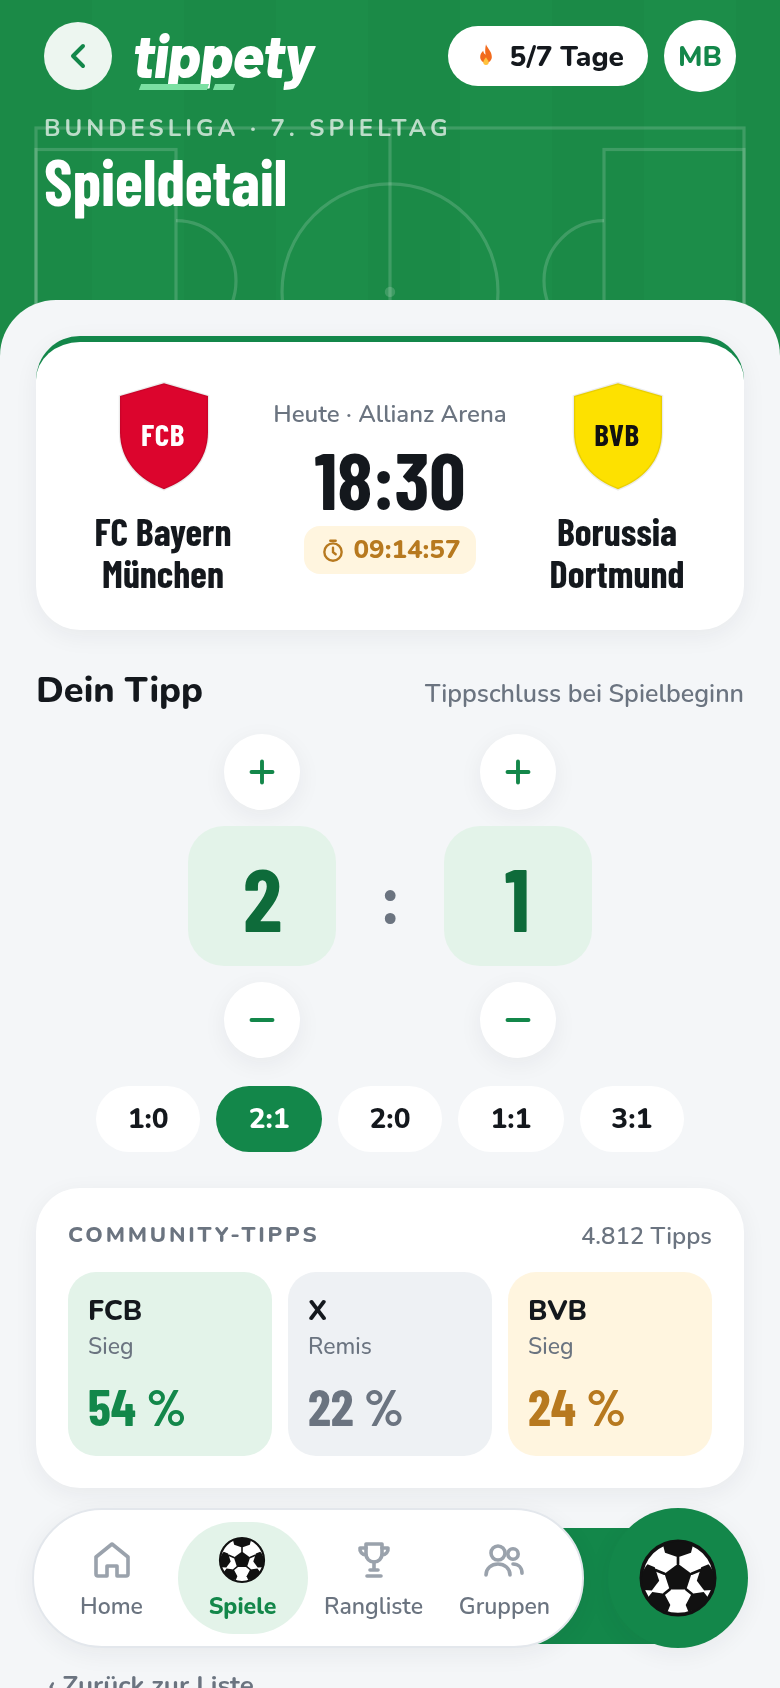
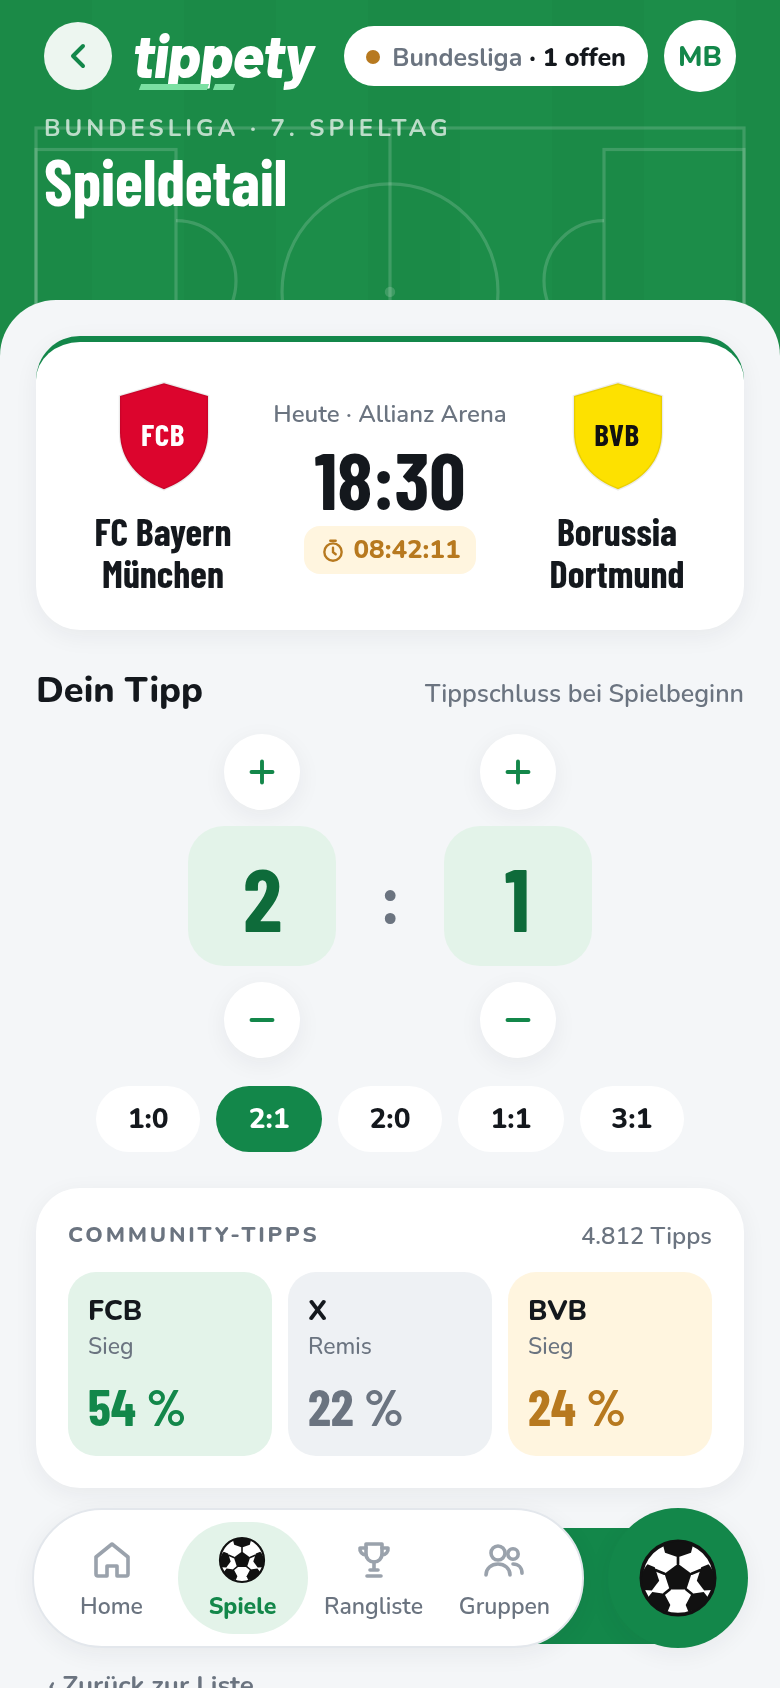
feat: Header-Pill zeigt offene Tipps der Lieblingsliga (nächster Spieltag), live aktualisiert

Changed region(s): [[0.4308, 0.0, 0.7077, 0.0616], [0.4923, 0.3081, 0.5846, 0.3389], [0.7385, 0.0308, 0.8, 0.0616]]

diff --git a/mobile/src/data/mock/mockRepository.ts b/mobile/src/data/mock/mockRepository.ts
@@ -2,6 +2,7 @@ import type { TippetyRepository } from '../repository';
 import type { Match } from '../types';
 import { groups, leaderboards, matches, myStats } from './fixtures';
 import { leagues } from './teams';
+import { notifyTipsChanged } from '../events';
 
 const delay = <T,>(v: T): Promise<T> => new Promise((r) => setTimeout(() => r(v), 0));
 const store: Match[] = matches.map((m) => ({ ...m }));
@@ -34,6 +35,21 @@ export const mockRepository: TippetyRepository = {
     return delay(after ?? open[0]);
   },
   countTipsOnDay: (sport, day) => delay(store.filter((m) => m.sport === sport && m.kickoff.startsWith(day) && m.myTip).length),
+  getOpenTipsNextRound: (sport) => {
+    const leagueId = myStats[sport].favoriteLeagueId;
+    const now = Date.now();
+    const upcoming = store
+      .filter((m) => m.leagueId === leagueId && m.status === 'scheduled' && Date.parse(m.kickoff) > now)
+      .sort((a, b) => `${a.kickoff}|${a.id}`.localeCompare(`${b.kickoff}|${b.id}`));
+    if (!upcoming.length) return delay(undefined);
+    const round = upcoming[0].round;
+    return delay({
+      leagueId,
+      leagueName: leagues.find((l) => l.id === leagueId)?.name ?? leagueId,
+      round,
+      open: upcoming.filter((m) => m.round === round && !m.myTip),
+    });
+  },
   getLeaderboard: (sport) => delay(leaderboards[sport]),
   getGroups: (sport) => delay(groups.filter((g) => g.sport === 'both' || g.sport === sport)),
   getMyStats: (sport) => delay(myStats[sport]),
@@ -44,6 +60,7 @@ export const mockRepository: TippetyRepository = {
       return Promise.reject(new Error('Tippschluss erreicht'));
     }
     m.myTip = tip;
+    notifyTipsChanged();
     return delay({ ...m });
   },
 };

diff --git a/mobile/src/components/OpenTipsPill.tsx b/mobile/src/components/OpenTipsPill.tsx
@@ -1,0 +1,35 @@
+import { Pressable, Text, View } from 'react-native';
+import { router } from 'expo-router';
+import { repo, useQuery, useTipsVersion } from '@/data';
+import { useSport } from '@/sport/SportContext';
+import { useTheme } from '@/theme/ThemeProvider';
+
+/** Header-Pill: offene Tipps der Lieblingsliga im nächsten Spieltag. Tap → erstes offenes Spiel. */
+export function OpenTipsPill() {
+  const { sport } = useSport();
+  const { c, accent, fonts } = useTheme();
+  const version = useTipsVersion();
+  const info = useQuery(() => repo.getOpenTipsNextRound(sport), [sport, version]).data;
+  if (!info) return null;
+  const n = info.open.length;
+  const done = n === 0;
+  return (
+    <Pressable
+      accessibilityRole="button"
+      accessibilityLabel={done ? `${info.leagueName}: alle Spiele getippt` : `${info.leagueName}: ${n} offene Tipps, zum ersten offenen Spiel`}
+      onPress={() => (done ? router.navigate('/spiele') : router.push(`/spiel/${info.open[0].id}`))}
+      style={{ flexDirection: 'row', alignItems: 'center', gap: 6, height: 30, paddingHorizontal: 11, borderRadius: 999, backgroundColor: c.card, maxWidth: 190 }}
+    >
+      {done ? (
+        <Text style={{ fontFamily: fonts.bodyHeavy, fontSize: 13, color: accent.main }}>✓ Alle getippt</Text>
+      ) : (
+        <>
+          <View style={{ width: 7, height: 7, borderRadius: 4, backgroundColor: c.warning }} />
+          <Text style={{ fontFamily: fonts.bodyBold, fontSize: 12.5, color: c.textMuted }} numberOfLines={1}>
+            {info.leagueName} <Text style={{ fontFamily: fonts.bodyHeavy, color: c.text }}>· {n} offen</Text>
+          </Text>
+        </>
+      )}
+    </Pressable>
+  );
+}

diff --git a/mobile/src/components/AppHeader.tsx b/mobile/src/components/AppHeader.tsx
@@ -8,7 +8,8 @@ import { useTheme } from '@/theme/ThemeProvider';
 import { myStatsSync } from './headerData';
 import { Logo } from './Logo';
 import { FieldBackground } from './FieldBackground';
-import { ChevronLeft, FlameIcon } from './Icons';
+import { ChevronLeft } from './Icons';
+import { OpenTipsPill } from './OpenTipsPill';
 
 export const SHEET_OVERLAP = 28;
 
@@ -41,12 +42,7 @@ export function AppHeader({ children, height = 128, back }: Props) {
             <Logo color={accent.headerText} accent={sport === 'football' ? '#7BE0A2' : accent.main} />
           </View>
           <View style={[styles.row, { gap: 8 }]}>
-            <View style={[styles.pill, { backgroundColor: c.card }]}>
-              <FlameIcon />
-              <Text style={{ fontFamily: fonts.bodyHeavy, fontSize: 14, color: c.text }}>
-                {stats.streak.done}/{stats.streak.of} Tage
-              </Text>
-            </View>
+            <OpenTipsPill />
             <View style={[styles.avatar, { backgroundColor: c.card }]}>
               <Text style={{ fontFamily: fonts.bodyHeavy, fontSize: 14, color: accent.main }}>{stats.initials}</Text>
             </View>

diff --git a/mobile/src/data/repository.ts b/mobile/src/data/repository.ts
@@ -1,4 +1,4 @@
-import type { Group, League, LeaderboardEntry, LeaderboardPeriod, Match, Score, Sport, UserStats } from './types';
+import type { OpenRoundTips, Group, League, LeaderboardEntry, LeaderboardPeriod, Match, Score, Sport, UserStats } from './types';
 
 /**
  * Datenzugriff der App. Aktuell mit Mock-Daten implementiert (mockRepository),
@@ -18,5 +18,7 @@ export interface TippetyRepository {
   getLeaderboard(sport: Sport, period: LeaderboardPeriod): Promise<LeaderboardEntry[]>;
   getGroups(sport: Sport): Promise<Group[]>;
   getMyStats(sport: Sport): Promise<UserStats>;
+  /** Offene Tipps im nächsten Spieltag der Lieblingsliga */
+  getOpenTipsNextRound(sport: Sport): Promise<OpenRoundTips | undefined>;
   saveTip(matchId: string, tip: Score): Promise<Match>;
 }

diff --git a/mobile/src/data/mock/fixtures.ts b/mobile/src/data/mock/fixtures.ts
@@ -62,6 +62,6 @@ export const groups: Group[] = [
 ];
 
 export const myStats: Record<Sport, UserStats> = {
-  football: { userId: 'me', name: 'Markus B.', initials: 'MB', points: 1284, hits: 38, tips: 52, rank: 128, streak: { done: 5, of: 7 } },
-  hockey: { userId: 'me', name: 'Markus B.', initials: 'MB', points: 812, hits: 21, tips: 34, rank: 42, streak: { done: 5, of: 7 } },
+  football: { userId: 'me', name: 'Markus B.', initials: 'MB', points: 1284, hits: 38, tips: 52, rank: 128, streak: { done: 5, of: 7 }, favoriteLeagueId: 'bl' },
+  hockey: { userId: 'me', name: 'Markus B.', initials: 'MB', points: 812, hits: 21, tips: 34, rank: 42, streak: { done: 5, of: 7 }, favoriteLeagueId: 'nl' },
 };

diff --git a/mobile/src/data/events.ts b/mobile/src/data/events.ts
@@ -1,0 +1,14 @@
+import { useSyncExternalStore } from 'react';
+
+/** Zähler, der bei jeder Tipp-Änderung steigt – damit Ansichten live neu laden. */
+let version = 0;
+const listeners = new Set<() => void>();
+export function notifyTipsChanged() {
+  version += 1;
+  listeners.forEach((l) => l());
+}
+const subscribe = (l: () => void) => {
+  listeners.add(l);
+  return () => listeners.delete(l);
+};
+export const useTipsVersion = () => useSyncExternalStore(subscribe, () => version, () => version);

diff --git a/mobile/src/data/types.ts b/mobile/src/data/types.ts
@@ -72,4 +72,13 @@ export type UserStats = {
   tips: number;
   rank: number;
   streak: { done: number; of: number };
+  /** Lieblingsliga je Sportart (für die Header-Pill) */
+  favoriteLeagueId: string;
+};
+
+export type OpenRoundTips = {
+  leagueId: string;
+  leagueName: string;
+  round: string;
+  open: Match[];
 };

diff --git a/mobile/src/data/index.ts b/mobile/src/data/index.ts
@@ -4,6 +4,7 @@ import type { TippetyRepository } from './repository';
 import { leagues } from './mock/teams';
 
 export * from './types';
+export { useTipsVersion } from './events';
 export { MOCK_TODAY } from './mock/fixtures';
 
 /** Einziger Austauschpunkt: später z. B. `apiRepository` aus ./api */
